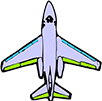
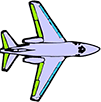
雷霆

diff --git a/hero_honor/plane_sprites.py b/hero_honor/plane_sprites.py
@@ -3,7 +3,7 @@ import random
 import time
 
 # 定义屏幕常量
-SCREEN_RECT = pygame.Rect(0, 0, 480, 600)
+SCREEN_RECT = pygame.Rect(0, 0, 700, 480)
 # 创建敌机事件常量
 CREAT_ENEMY_EVENT = pygame.USEREVENT
 # 英雄开火事件常量
@@ -26,8 +26,8 @@ class GameSprites(pygame.sprite.Sprite):
 
     def update(self):
 
-        # 默认在垂直方向移动
-        self.rect.y -= self.speed
+        # 默认在水平方向移动
+        self.rect.x += self.speed
 
 
 class Enemy(GameSprites):
@@ -40,12 +40,12 @@ class Enemy(GameSprites):
         self.speed = random.randint(1, 10)
 
         # 敌军初始位置随机
-        max_x = SCREEN_RECT.width - self.rect.width
-        self.rect.x = random.randint(0, max_x)
-        self.rect.bottom = 0
+        max_y = SCREEN_RECT.height - self.rect.height
+        self.rect.y = random.randint(0, max_y)
+        self.rect.x = SCREEN_RECT.width
 
-        # 敌军x轴方向
-        self.direction = random.randint(1, 2)
+        # 敌军y轴方向
+        self.direction = random.randint(-1,1)
 
         # 创建敌军子弹精灵组
         self.bullets = pygame.sprite.Group()
@@ -55,13 +55,19 @@ class Enemy(GameSprites):
         pygame.time.set_timer(CREAT_ENEMY_EVENT, 500)
 
     def update(self):
-        self.rect.y += self.speed
+        self.rect.x -= self.speed
         if self.direction == 1:
-            self.rect.x -= random.randint(1, 5)
-        else:
-            self.rect.x += random.randint(1, 5)
-        if self.rect.y >= SCREEN_RECT.height or self.rect.x <= -self.rect.width or self.rect.x >= SCREEN_RECT.width:
-            self.kill()
+            self.rect.y += random.randint(1, 5)
+        elif self.direction == -1:
+            self.rect.y -= random.randint(1, 5)
+        elif self.direction == 0:
+        	self.speed = 1
+
+        if self.rect.y <= 0 or self.rect.bottom >= SCREEN_RECT.height:
+        	self.direction = -self.direction
+
+        if self.rect.x <= 0:
+        	self.kill()
 
     def fire(self):
         '''发射子弹'''
@@ -82,17 +88,17 @@ class Background(GameSprites):
     '''背景精灵类'''
 
     def __init__(self, is_alt=False):
-        image_name = './images/background1.png'
+        image_name = './images/background.png'
 
         super().__init__(image_name)
         # 判断是否交替图片，如果是，将图片设置到屏幕顶部
         if is_alt:
-            self.rect.y = -self.rect.height
+            self.rect.x = self.rect.width
 
     def update(self):
-        self.rect.y += self.speed
-        if self.rect.y >= SCREEN_RECT.height:
-            self.rect.y = -self.rect.height
+        self.rect.x -= 2
+        if self.rect.x <= -SCREEN_RECT.width:
+            self.rect.x = SCREEN_RECT.width
 
 
 class Hero(GameSprites):
@@ -100,12 +106,12 @@ class Hero(GameSprites):
 
     def __init__(self, image_name):
         super().__init__(image_name)
-        self.rect.x = 360
-        self.rect.y = 450
+        self.rect.x = 250
+        self.rect.y = 120
         self.speed = 7
         # 设置定时器
         # 每0.3秒发射一次子弹
-        pygame.time.set_timer(HERO_FIRE_EVENT, 300)
+        pygame.time.set_timer(HERO_FIRE_EVENT, 499)
 
         # 创建英雄子弹精灵组
         self.bullets = pygame.sprite.Group()
@@ -132,11 +138,11 @@ class Hero(GameSprites):
                 # 添加两排武器
             bullet1 = Bullet_Hero()
             bullet2 = Bullet_Hero()
-            bullet1.rect.centerx = self.rect.centerx - 13
-            bullet1.rect.bottom = self.rect.y + 20 - 15*i
+            bullet1.rect.centery = self.rect.centery - 13
+            bullet1.rect.x = self.rect.x + 12*i + 20
 
-            bullet2.rect.centerx = self.rect.centerx + 13
-            bullet2.rect.bottom = self.rect.y + 20 - 15*i
+            bullet2.rect.centery = self.rect.centery + 13
+            bullet2.rect.x = self.rect.x + 12*i + 20
             self.bullets.add(bullet1, bullet2)
 
     def update(self):
@@ -183,15 +189,14 @@ class Bullet_Hero(GameSprites):
     '''英雄子弹精灵类'''
 
     def __init__(self,):
-        image_name = './images/bullet1.png'
+        image_name = './images/bullet22.png'
         super().__init__(image_name)
-        self.image = pygame.transform.scale(self.image, (3, 8))
-        # 存储用小数表示的子弹位置
+        self.image = pygame.transform.scale(self.image, (8, 3))
         self.speed = 20
 
     def update(self):
-        super().update()
-        if self.rect.bottom <= 0:
+        self.rect.x += self.speed
+        if self.rect.x >= SCREEN_RECT.width:
             self.kill()
 
 

diff --git a/hero_honor/plane_mian.py b/hero_honor/plane_mian.py
@@ -17,8 +17,8 @@ class PlaneGame(object):
         self.clock = pygame.time.Clock()
 
         # 生命数量
-        self.life1 = 2
-        self.life2 = 3
+        self.life1 = 1
+        self.life2 = 1
         # 分数
         self.score1 = 0
         self.score2 = 0
@@ -35,7 +35,6 @@ class PlaneGame(object):
         while True:
             # 1. 设置刷新帧率
             self.clock.tick(60)
-
             # 2. 事件监听
             self.__check_event()
 
@@ -138,10 +137,9 @@ class PlaneGame(object):
         # 英雄组
         self.hero1 = Hero('./images/life.png')
         self.hero_group1 = pygame.sprite.Group(self.hero1)
-        self.hero2 = Hero('./images/hero1.png')
-        self.hero2.image = pygame.transform.scale(self.hero2.image,(46,57))
-        self.hero2.rect.x = 120
-        self.hero2.rect.y = 450
+        self.hero2 = Hero('./images/life.png')
+        self.hero2.rect.x = 250
+        self.hero2.rect.y = 350
         self.hero_group2 = pygame.sprite.Group(self.hero2)
 
 
